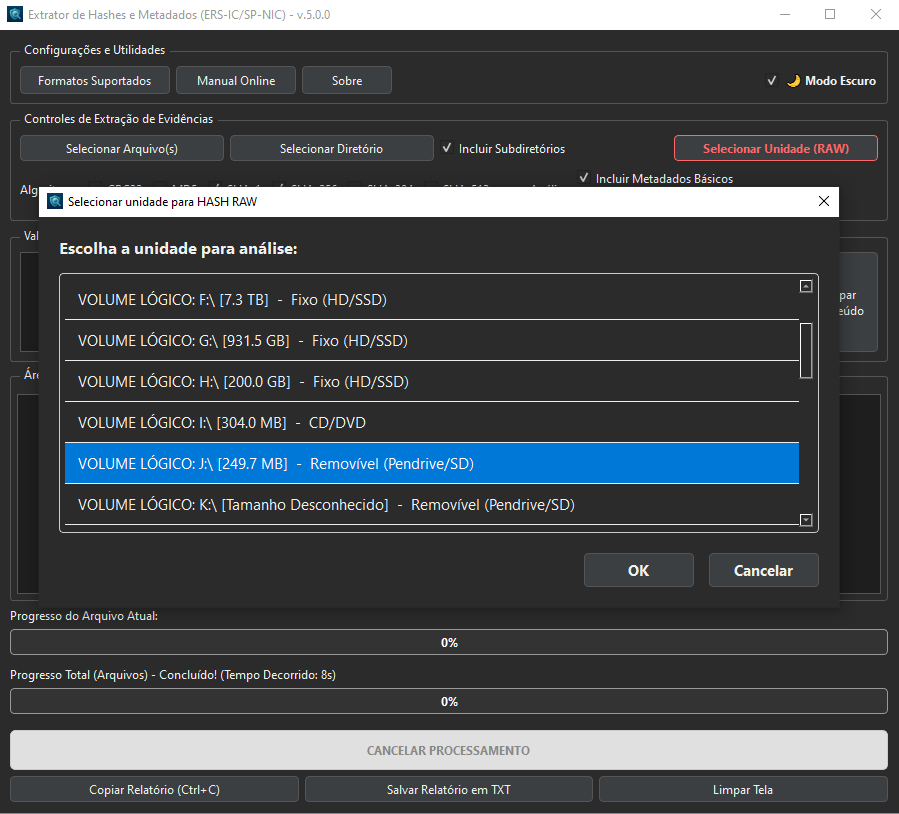
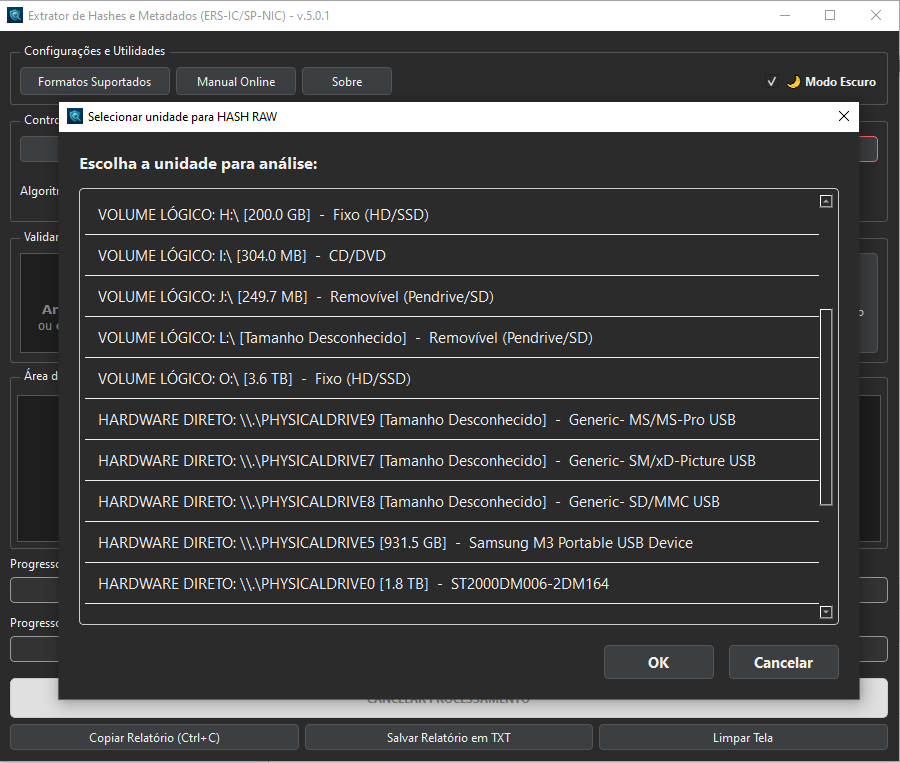
docs(manual): atualizar imagem no MANUAL.md
- Atualiza captura de tela referente a "Aquisição Forense e Hash RAW (Bit-a-Bit)".
- Ajustes de espaçamentos entre imagens.
- Ajustes de largura máxima em imagens.

diff --git a/MANUAL.md b/MANUAL.md
@@ -65,7 +65,7 @@ Para processar mídias físicas ou volumes lógicos em baixo nível, utilize o m
 
     <figure>
       <img src="imgs/seletor_unidade.PNG" alt="Seletor de Unidade para HASH RAW." style="border: 1px solid black;" width="100%">
-      <figcaption align="center"><i>Seletor de Unidade para HASH RAW.</i></figcaption>
+      <figcaption align="center"><i>Seletor de Unidade para HASH RAW: CDs, DVDs, Volumes Lógicos e Hardwares (mesmo com tamanhos desconhecidos) são listados.</i></figcaption>
     </figure>
 
 <br>
@@ -98,10 +98,9 @@ Para processar mídias físicas ou volumes lógicos em baixo nível, utilize o m
     <br>
 
     <figure>
-      <img src="imgs/hash_com_imagem_seletor_formato.PNG" alt="Seletor do formato para aquisição da cópia bit-bit-bit." style="border: 1px solid black;" width="100%">
+      <img src="imgs/hash_com_imagem_seletor_formato.PNG" alt="Seletor do formato para aquisição da cópia bit-bit-bit." style="border: 1px solid black; max-width: 500px; width: 100%; display: block; margin: 0 auto;">
       <figcaption align="center"><i>Seletor do formato para aquisição da cópia bit-bit-bit.</i></figcaption>
     </figure>
-
     <br>
     
     <br>
@@ -133,7 +132,6 @@ O extrator permite auditar listagens de hashes recebidas em laudos de terceiros 
   * **⚠ ALERTA PARCIAL:** se apenas alguns dos hashes daquele arquivo forem encontrados.
   * **❌ DIVERGÊNCIA:** se nenhum hash calculado constar na listagem informada pelo requisitante do exame.
 * Ao final, é gerado um **RESUMO DA VALIDAÇÃO DE CUSTÓDIA** que sintetiza os resultados acima:
-  * 
 
     <figure>
       <img src="imgs/validacao_cadeia_custodia.PNG" alt="Neste exemplo hipotético, o requisitante do exame enviou uma listagem de hashes que foi copiada na região 'Validação Cadeia de Custódia'. A extração dos hashs dos arquivos analisados foi comparada automaticamente com a referência recebida." style="border: 1px solid black;" width="100%">
@@ -180,11 +178,15 @@ Ao término do processamento, revise o resumo final para consolidar a perícia:
       <figcaption align="center"><i>É possível selecionar os formatos Pontos e Polígono. </i></figcaption>
     </figure>
 
+    <br>
+  
     <figure>
-      <img src="imgs/janela_GPS_KML_informacoes.PNG" alt="É possível registrar no arquivo KML informações que identificam a extração." style="border: 1px solid black;" width="100%">
+      <img src="imgs/janela_GPS_KML_informacoes.PNG" alt="É possível registrar no arquivo KML informações que identificam a extração." style="border: 1px solid black; max-width: 500px; width: 100%; display: block; margin: 0 auto;" width="100%">
       <figcaption align="center"><i>É possível registrar no arquivo KML informações que identificam a extração. </i></figcaption>
     </figure>
 
+    <br>
+    
     <figure>
       <img src="imgs/janela_GPS_KML_instruções.PNG" alt="Instruções para visualização de arquivos KML." style="border: 1px solid black;" width="100%">
       <figcaption align="center"><i>Instruções para visualização de arquivos KML. </i></figcaption>
